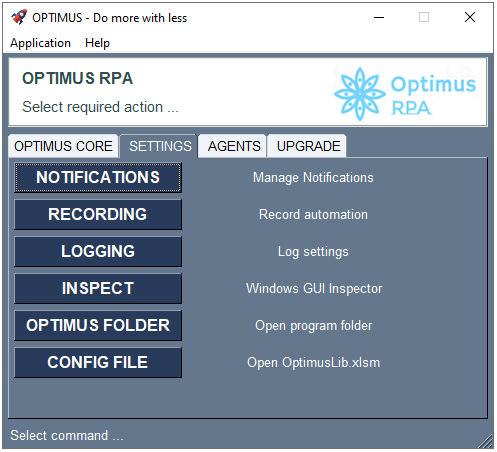
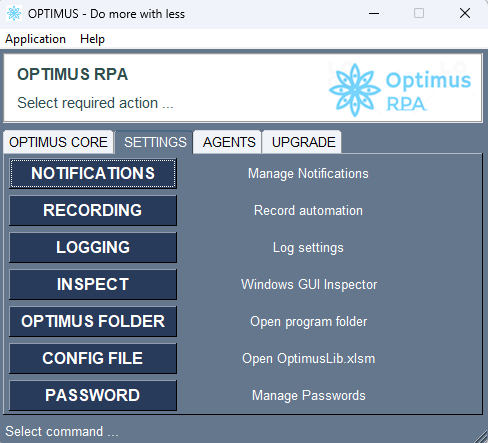
New Password Manager function

diff --git a/docs/others/security.md b/docs/others/security.md
@@ -8,4 +8,13 @@ To access the Google Password Manager, open your Chrome browser and go to `chrom
 
 ![Google Password Manager](../assets/images/google-password-manager.PNG)
 
+**New Update - New Password Management**
+
+Password management is now maintained directly from the Optimus application.  And not via `Google Password Manager`.
+
+Access from Optimus Application - Settings:  
+![Settings](../assets/images/gui-settings.PNG)
+
+Password Manager screen:  
+![Password Manager Screen](../assets/images/password-manager.PNG)
 
